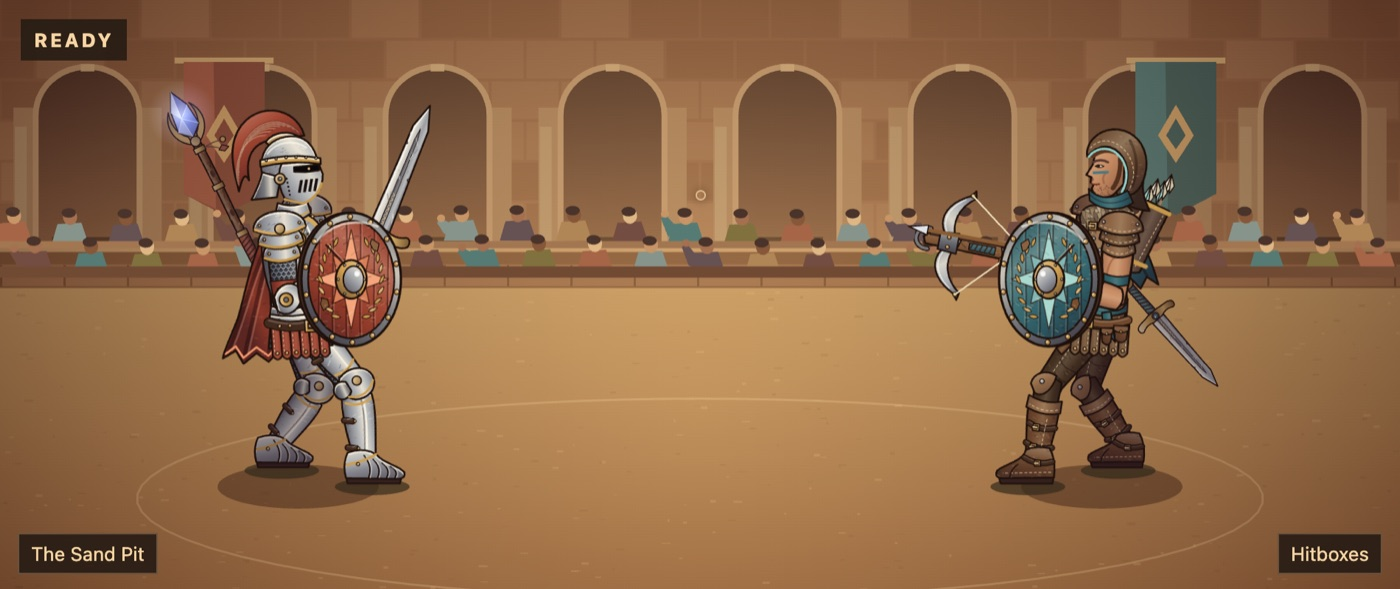
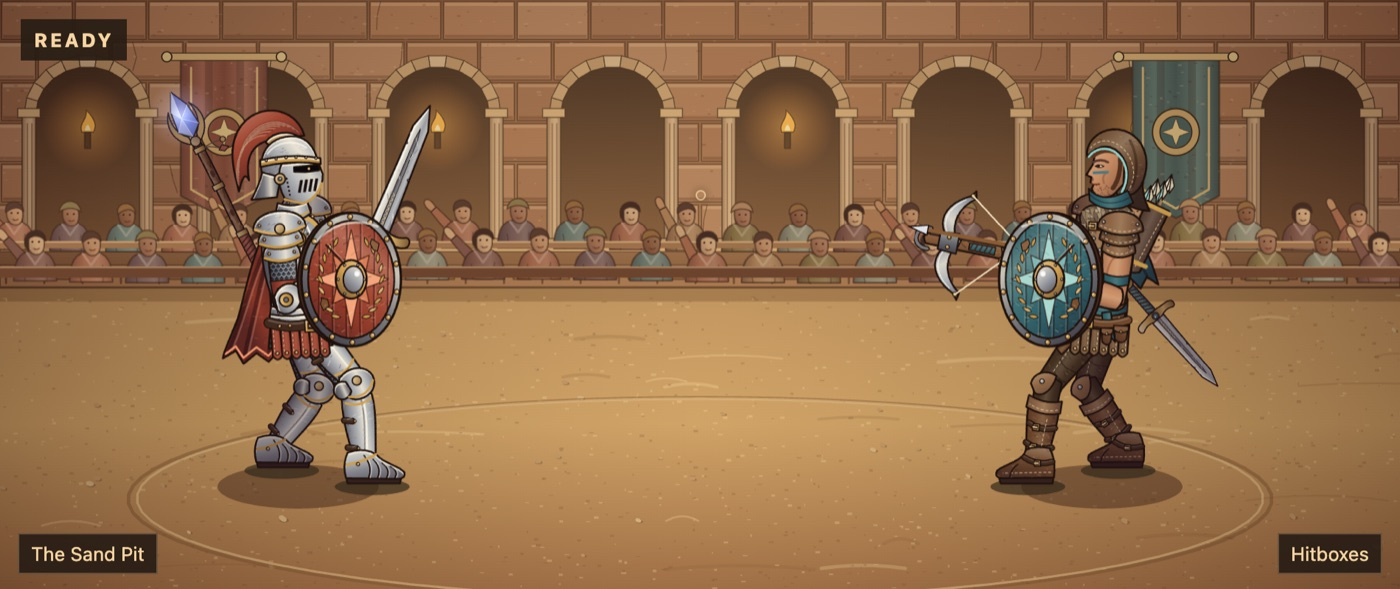
Document the 2D venues

diff --git a/docs/2d-art-poc.md b/docs/2d-art-poc.md
@@ -1,6 +1,6 @@
 # Detailed 2D art: investigation, proof of concept and plan
 
-Branch: `claude/detailed-2d-assets-poc-63e424`, cut from `main` at `aa10e25`. Measured 2026-11-26. Every weapon, shield and armor kit now has 2D art.
+Branch: `claude/detailed-2d-assets-poc-63e424`, cut from `main` at `aa10e25`. Measured 2026-11-26. Every weapon, shield, armor kit and venue now has 2D art.
 
 ## Answer
 
@@ -42,6 +42,16 @@ Everything a fighter can carry or wear:
 ![All armor kits](art2d/armor.jpg)
 
 Each blade and head covers the stretch that `weaponSegments()` hit-tests, and flail chains hang on the same curves as the hit test. Nothing in the simulation changed, so timing, hit detection and **Hitboxes** are unaffected. A sweep of 66 bouts (every finisher and 60 random matchups) drew no 3D mesh in 2D mode.
+
+### Venues
+
+`venues2d.js` redraws the Sand Pit, Fernwood Clearing and Moonlit Ruins. The still art is painted into the cached backdrop, so it adds nothing per frame, and the crowd and wildlife are sprites on the same paths as before, so their click targets still work. **Art 3D** keeps the original venues unchanged.
+
+![Fernwood Clearing](art2d/venue-fernwood.jpg)
+
+![Moonlit Ruins](art2d/venue-ruins.jpg)
+
+With 20 full redraws per frame on the desktop size, 2D held about 17 ms in all three venues, against 88–97 ms for 3D.
 
 ### Adding an item
 
@@ -95,7 +105,7 @@ Headless Chrome on an Apple M1. Plate against leather, ready pose.
 - One side-on drawing per part, so there is no true twist or turn of the torso or shield.
 - Specials do not change their art with their state (Last Oath's blade does not brighten when sworn; the aura still shows it).
 - Sprites do not interleave by depth between the two fighters. The attacker is drawn on top.
-- The backdrop and crowd are still flat, softer art, so the fighters stand out more than the scenery.
+- The Quality setting changes nothing in 2D mode.
 - The Polys and WebGL benchmark toggles do nothing to the sprites.
 
 ## Plan to finish
@@ -105,7 +115,7 @@ Headless Chrome on an Apple M1. Plate against leather, ready pose.
 | 1 | Look at the 2D art, test on the phone, and decide | — | **Open** |
 | 2 | Joint polish and cloth swing | 40k | Done |
 | 3 | All weapons, shields, specials and armor kits, with a first polish pass | 370k | Done |
-| 4 | Matching backdrop and crowd art for the three venues | 80k | Next if 2D is chosen |
-| 5 | Make 2D the default, remove the 3D painter, WebGL path and Quality setting, update docs | 40k | After 4 |
+| 4 | Matching backdrop and crowd art for the three venues | 80k | Done |
+| 5 | Make 2D the default, remove the 3D painter, WebGL path and Quality setting, update docs | 40k | Waiting for the decision in step 1 |
 
 If 2D is chosen, stop adding 3D mesh detail, because step 5 deletes it. A new weapon or armor kit now needs 2D art too.

diff --git a/ideas.md b/ideas.md
@@ -23,11 +23,10 @@ Fights stay fully idle (see README): ideas must not add in-fight input.
 | 11 | **Bout summary card** | 3 | 50k | 0.6 | After the bout: damage dealt, blocks, perfect blocks, specials used and the turning point. |
 | 12 | **Wall hazards per venue** | 3 | 55k | 0.5 | Build on wall slams: spikes in the Sand Pit, thorns in Fernwood, crumbling stone in the Ruins, each adding a small effect. |
 | 13 | **Seeded replays** | 3 | 70k | 0.4 | Route every simulation roll through one seeded generator so a bout can be replayed exactly. Needed later for offline results. |
-| 14 | **2D venues** | 3 | 80k | 0.4 | If 2D is chosen: redraw the three venues and crowds to match the fighters. See the [2D art plan](docs/2d-art-poc.md). |
-| 15 | **Crowd hype meter** | 3 | 90k | 0.3 | Rises with perfect blocks, specials, staggers and comebacks; a full meter makes the crowd roar and drops a small cosmetic reward. |
-| 16 | **Fighter personalities** | 4 | 120k | 0.3 | Traits such as reckless, patient or showman that shift AI choices (aggression, blocking, sand throws). |
-| 17 | **Weapon attack modes** | 5 | 180k | 0.3 | Give the idle AI cheap and committed attacks, staff range choices and a spear throw finisher. See the [weapon plan](docs/weapon-attack-modes.md). |
-| 18 | **Saved stable** | 5 | 250k | 0.2 | Persist fighters, records, injuries and earnings in local storage. Start of the management layer. |
+| 14 | **Crowd hype meter** | 3 | 90k | 0.3 | Rises with perfect blocks, specials, staggers and comebacks; a full meter makes the crowd roar and drops a small cosmetic reward. |
+| 15 | **Fighter personalities** | 4 | 120k | 0.3 | Traits such as reckless, patient or showman that shift AI choices (aggression, blocking, sand throws). |
+| 16 | **Weapon attack modes** | 5 | 180k | 0.3 | Give the idle AI cheap and committed attacks, staff range choices and a spear throw finisher. See the [weapon plan](docs/weapon-attack-modes.md). |
+| 17 | **Saved stable** | 5 | 250k | 0.2 | Persist fighters, records, injuries and earnings in local storage. Start of the management layer. |
 
 ## Adding ideas
 

diff --git a/README.md b/README.md
@@ -77,7 +77,7 @@ Measured at phone size on a Mac (60 Hz), both renderers held 60 FPS with no drop
 
 ## 2D art proof of concept
 
-**Art 3D / Art 2D** switches the fighters between the 3D meshes (the default) and detailed 2D cut-out art (`fighter2d.js`). `?style=2d` or `?style=3d` sets it from the address bar, and `?cast=1` or `?cast=2` starts from a set matchup. Every weapon, special, shield and armor kit has 2D art (`weapons2d.js`, `armor2d.js`); a new item needs it too, or it keeps its 3D mesh there. It changes only the picture. Findings, measurements and the plan are in [docs/2d-art-poc.md](docs/2d-art-poc.md).
+**Art 3D / Art 2D** switches the fighters between the 3D meshes (the default) and detailed 2D cut-out art (`fighter2d.js`). `?style=2d` or `?style=3d` sets it from the address bar, and `?cast=1` or `?cast=2` starts from a set matchup. Every weapon, special, shield, armor kit and venue has 2D art (`weapons2d.js`, `armor2d.js`, `venues2d.js`); a new item needs it too, or it keeps its 3D mesh there. It changes only the picture. Findings, measurements and the plan are in [docs/2d-art-poc.md](docs/2d-art-poc.md).
 
 ## Armor geometry
 
